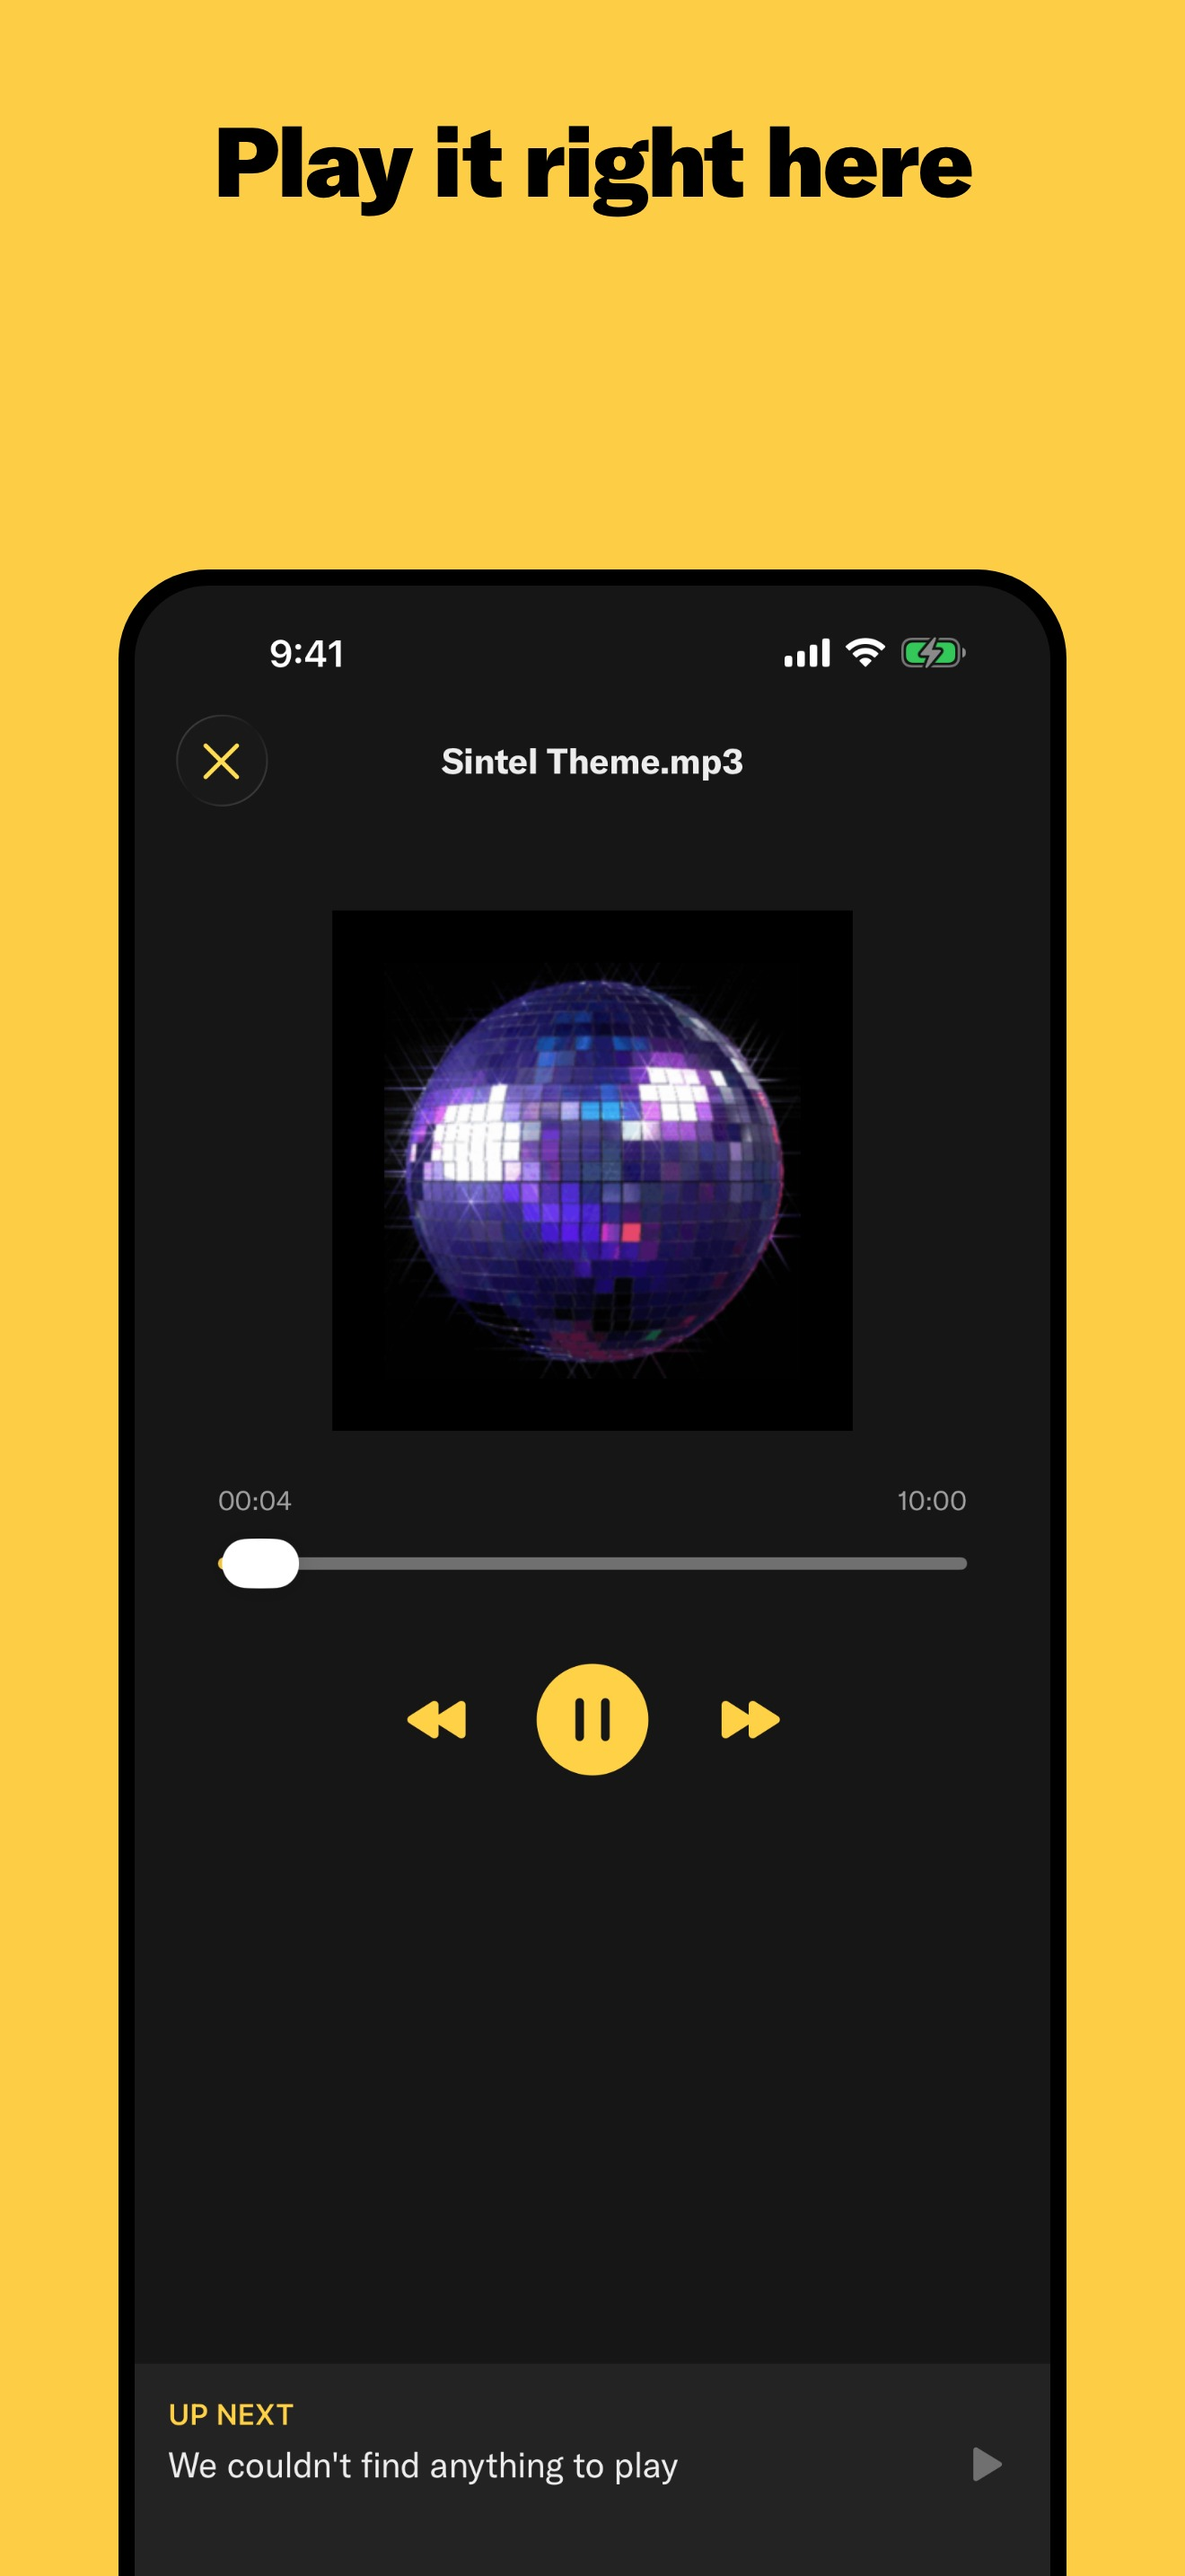
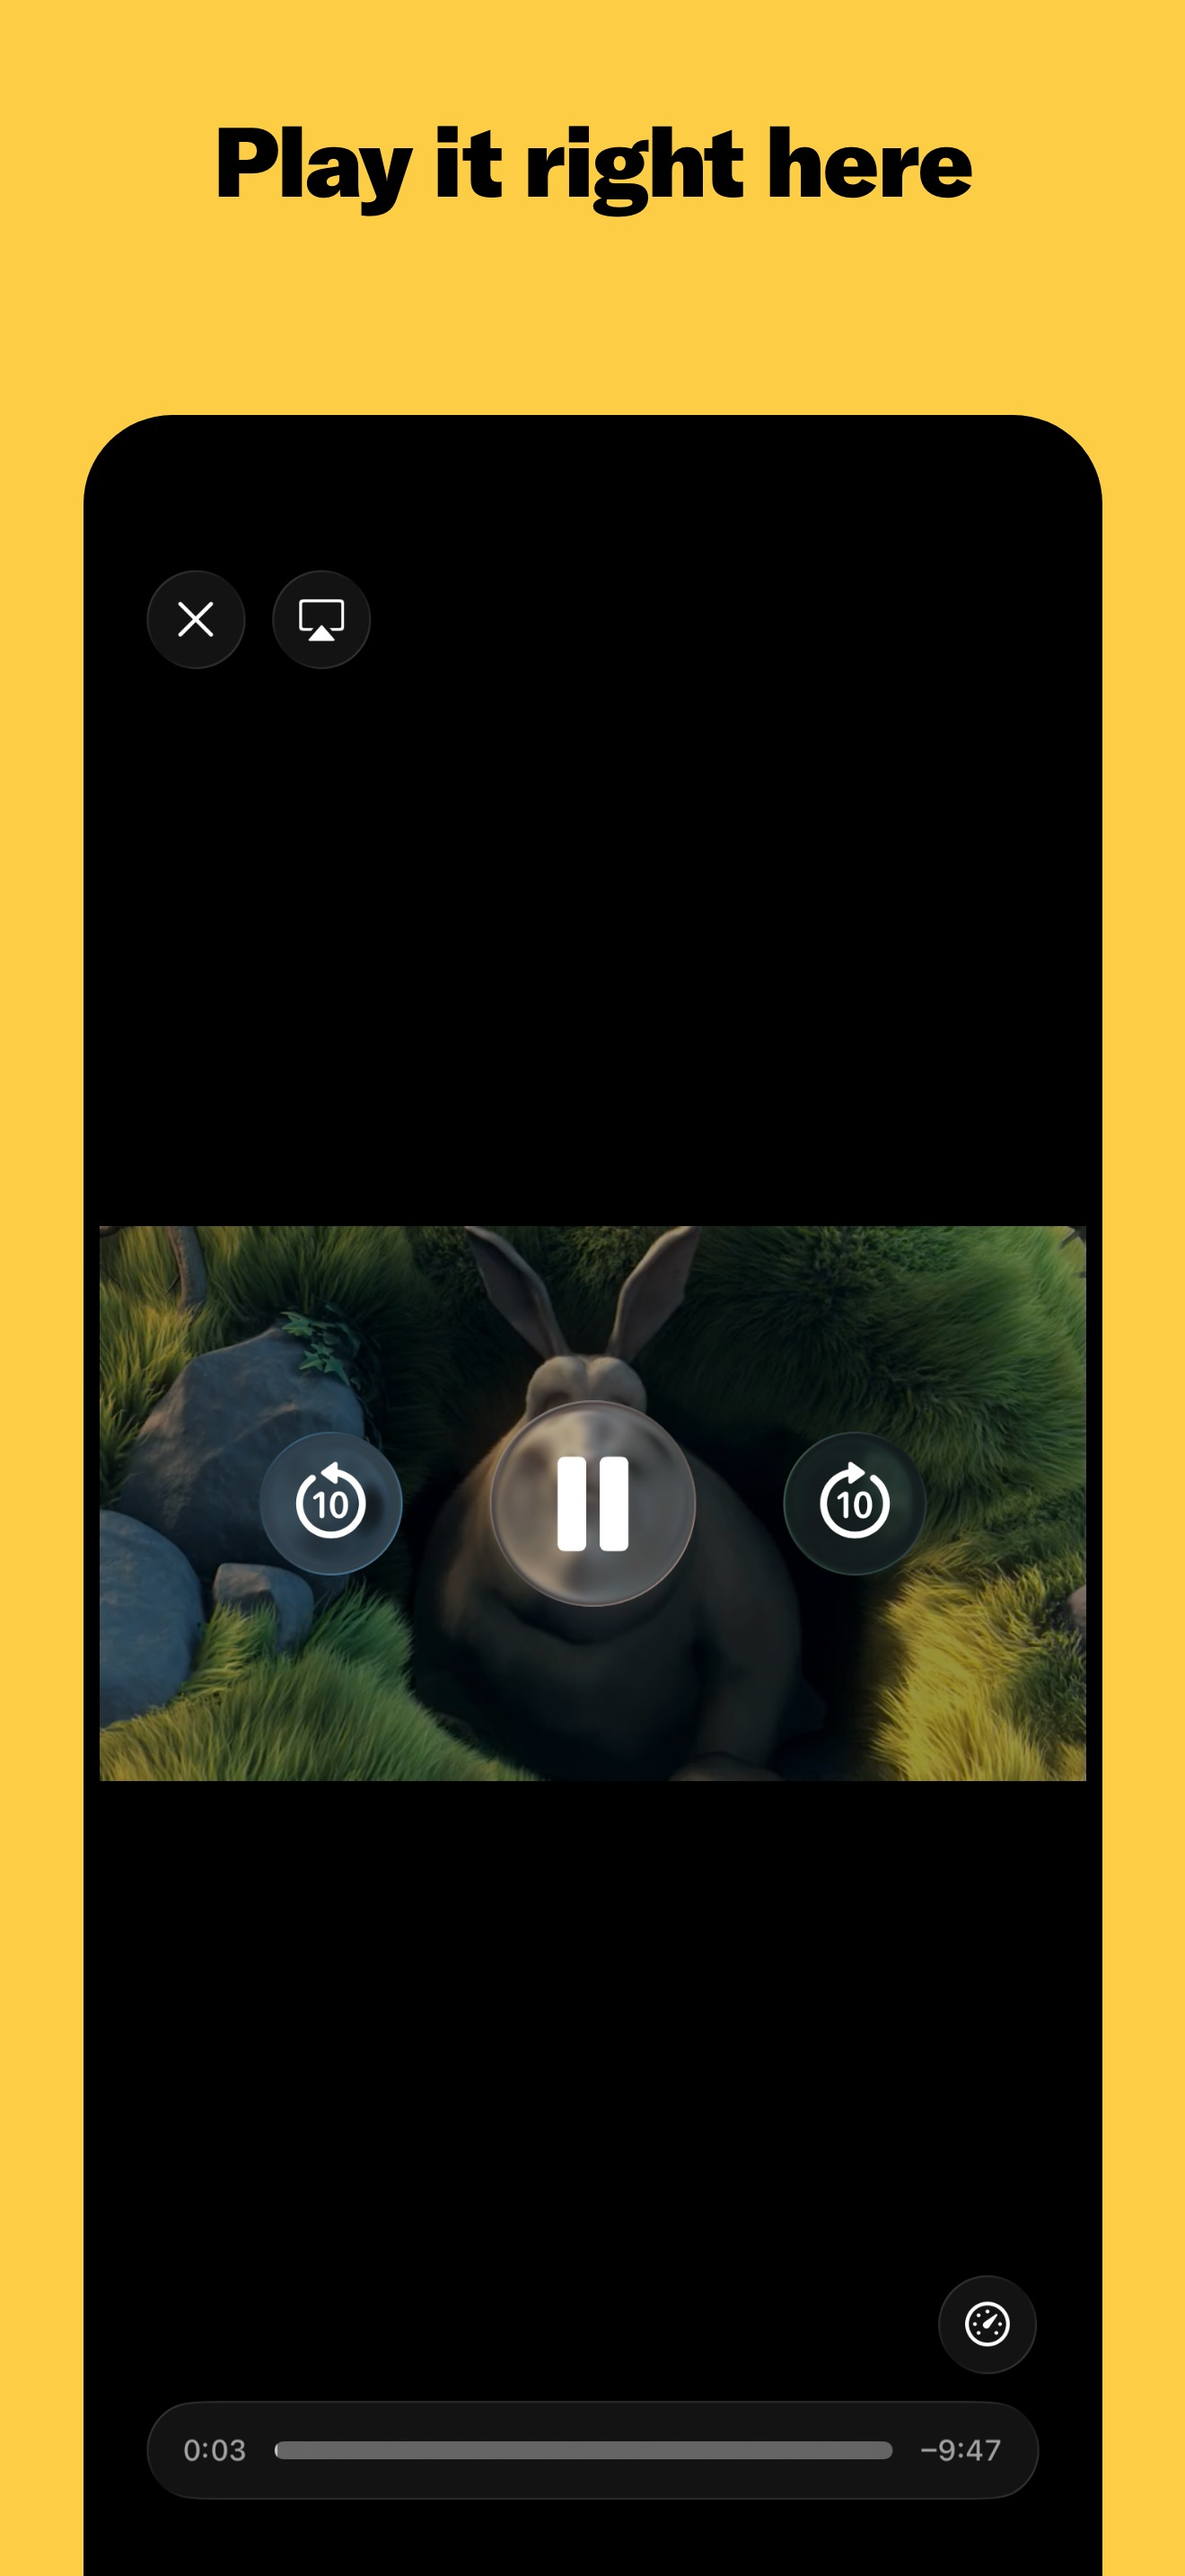
fix(store): close the caption-to-device gap and use the video player
Three fixes to the composed images, all visible in the diff.

The device sat 294px below the caption on a 2868px canvas — a band of dead
yellow wide enough to read as a layout bug. Cause: deviceWidth was 0.8 of the
canvas width, which makes the device only 2234px tall, and it is bottom-aligned,
so the slack all collects above it. At 0.86 the device is 2406px tall and the gap
is 89px.

The caption row was auto-height, so a one-line caption placed the device 123px
lower than a two-line one — the device visibly jumped between slots in the
carousel. It is now a fixed 373px row, sized from what GT America Black actually
occupies at this size rather than from the nominal line height, since its ascent
and descent make the line box taller than 1.1em. A caption that needs a third
line no longer clips silently: render() measures the overflow and refuses.

Slot 2 is the video player now that #59 has landed a baseline for it, so the
stand-in note comes out of the config.

Also addresses the review note on the output swap: the committed set is renamed
aside rather than deleted before the staging directory is renamed into place, and
restored if that rename fails. Deleting first meant a failed rename left the
listing path gone with the new images stranded under .staging — worse than the
mid-loop failure staging was added to prevent.

Changed region(s): [[0.0621, 0.1552, 0.9318, 1.0], [0.3727, 0.2793, 0.6212, 0.3103], [0.5902, 0.6517, 0.6523, 0.6827]]

diff --git a/scripts/store-images/template.html b/scripts/store-images/template.html
@@ -27,16 +27,22 @@
         height: var(--frame-height);
         background: var(--yellow-solid);
         display: grid;
-        /* Caption takes what it needs; the device fills the rest and is clipped
-           at the bottom edge, the way the Apple TV and Android TV shots do it. */
-        grid-template-rows: auto 1fr;
+        /* The caption row is a fixed height so the device sits at the same y in
+           every image regardless of how many lines the caption runs to; the
+           device fills the rest and meets the bottom edge, the way the Apple TV
+           and Android TV shots do it. */
+        grid-template-rows: var(--caption-block) 1fr;
         overflow: hidden;
         font-family: "GT America", -apple-system, system-ui, sans-serif;
         -webkit-font-smoothing: antialiased;
       }
 
       .caption {
+        margin: 0;
         padding: var(--caption-padding-block) var(--caption-padding-inline) 0;
+        /* Reserved space, not a clip: store-images.mjs fails the render when a
+           caption exceeds it, so this never silently truncates. */
+        overflow: hidden;
         text-align: center;
         color: #000;
         font-size: var(--caption-size);
